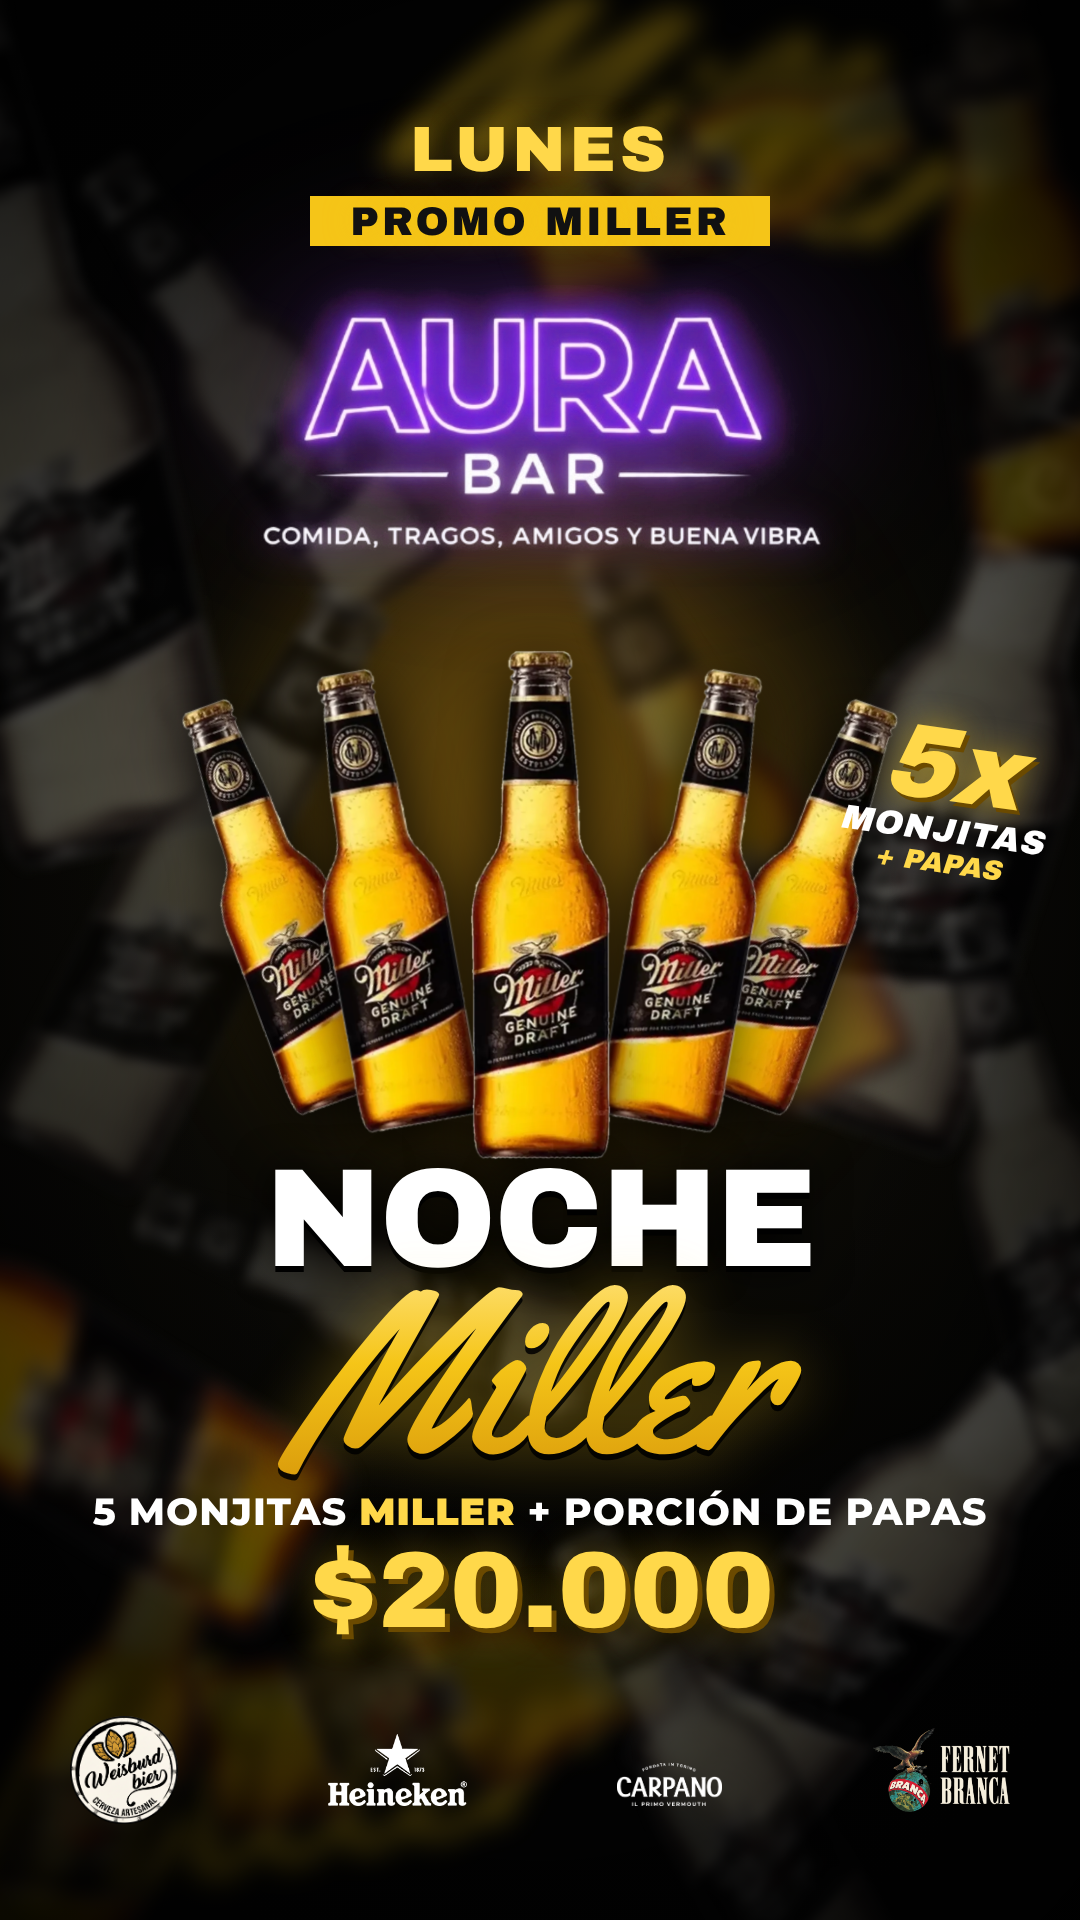
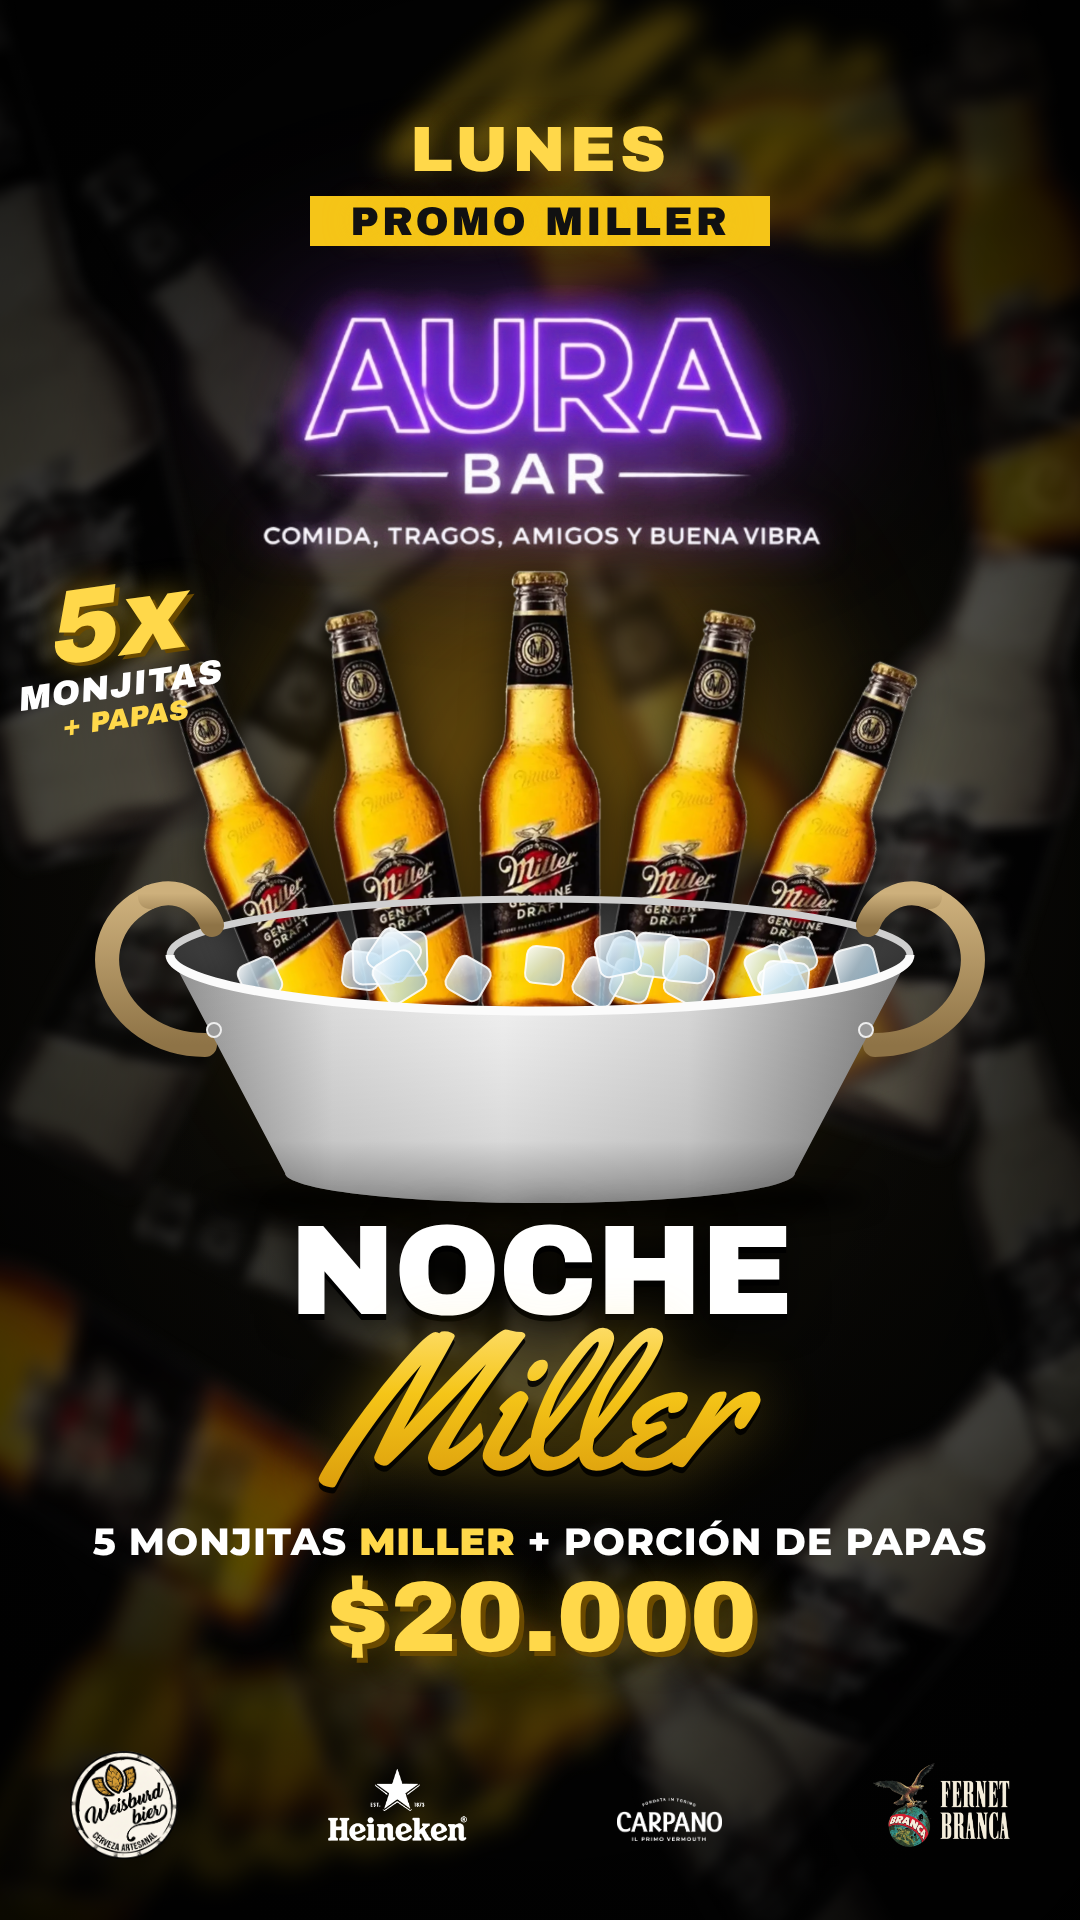
Flyer Aura: botellas dentro de frapera con hielo
Claude-Session: https://claude.ai/code/session_01W39ENh87ipPxyY1fiA6wth

diff --git a/flyer-aura/flyer.html b/flyer-aura/flyer.html
@@ -26,25 +26,27 @@
   .aura { top:285px; }
   .aura img { width:600px; filter: drop-shadow(0 0 18px rgba(166,77,255,.55)); }
 
-  .bottles { position:absolute; left:50%; top:660px; width:0; height:0; }
-  .bottles img { position:absolute; transform-origin:50% 100%; filter: drop-shadow(0 18px 30px rgba(0,0,0,.8)); }
+  .scene { position:absolute; left:0; top:575px; width:1080px; height:640px; }
+  .scene svg { position:absolute; left:0; top:0; width:1080px; height:640px; overflow:visible; }
+  .bottles { position:absolute; left:540px; top:0; width:0; height:0; }
+  .bottles img { position:absolute; transform-origin:50% 100%; filter: drop-shadow(0 10px 20px rgba(0,0,0,.6)); }
 
-  .badge { position:absolute; right:28px; top:720px; transform:rotate(8deg); text-align:center; }
+  .badge { position:absolute; left:14px; top:575px; transform:rotate(-8deg); text-align:center; }
   .badge .n { font-family:'Archivo Black'; font-style:italic; font-size:104px; line-height:.9; color:var(--gold2);
     text-shadow: 4px 4px 0 #6b4a00, 0 0 30px rgba(245,197,24,.5); }
   .badge .t { font-family:'Archivo Black'; font-size:34px; line-height:1; letter-spacing:1px; color:#fff; transform:skewX(-10deg); }
   .badge .t2 { font-family:'Archivo Black'; font-size:28px; color:var(--gold2); transform:skewX(-10deg); }
 
-  .noche { top:1160px; font-family:'Archivo Black'; font-size:140px; line-height:.85; letter-spacing:-2px; color:#fff;
+  .noche { top:1218px; font-family:'Archivo Black'; font-size:128px; line-height:.85; letter-spacing:-2px; color:#fff;
     text-shadow: 0 6px 0 #000, 0 0 40px rgba(0,0,0,.9); }
-  .miller { top:1262px; font-family:'Yellowtail', cursive; font-size:225px; line-height:1; color:var(--gold);
+  .miller { top:1308px; font-family:'Yellowtail', cursive; font-size:190px; line-height:1; color:var(--gold);
     background: linear-gradient(180deg,#ffe27a 0%,#f5c518 45%,#d99a0b 100%); -webkit-background-clip:text; background-clip:text; color:transparent;
     filter: drop-shadow(0 6px 0 rgba(0,0,0,.85)) drop-shadow(0 0 30px rgba(245,197,24,.35)); }
 
-  .promo { top:1488px; }
+  .promo { top:1518px; }
   .promo .l1 { font-weight:800; font-size:38px; letter-spacing:1px; }
   .promo .l1 b { color:var(--gold2); }
-  .promo .price { font-family:'Archivo Black'; font-size:108px; line-height:1.05; color:var(--gold2);
+  .promo .price { font-family:'Archivo Black'; font-size:100px; line-height:1.05; color:var(--gold2);
     text-shadow: 5px 5px 0 #6b4a00, 0 0 40px rgba(245,197,24,.4); }
 
   .addr { top:1662px; }
@@ -52,7 +54,7 @@
   .addr .bar { margin-top:10px; font-family:Montserrat; font-weight:900; font-size:26px; letter-spacing:3px; padding:4px 40px; }
   .legal { top:1675px; font-weight:800; font-size:17px; line-height:1.35; letter-spacing:.5px; }
 
-  .logos { position:absolute; left:70px; right:70px; bottom:95px; height:110px; display:flex; align-items:center; justify-content:space-between; }
+  .logos { position:absolute; left:70px; right:70px; bottom:60px; height:110px; display:flex; align-items:center; justify-content:space-between; }
   .logos img { display:block; }
 </style>
 </head>
@@ -83,12 +85,66 @@
   <div class="center day">LUNES<br><span class="bar">PROMO MILLER</span></div>
   <div class="center aura"><img src="assets/aura.png" alt="Aura Bar"></div>
 
-  <div class="bottles">
-    <img src="assets/miller.png" style="height:420px;left:-250px;top:20px;transform:rotate(-20deg)">
-    <img src="assets/miller.png" style="height:420px;left:134px;top:20px;transform:rotate(20deg)">
-    <img src="assets/miller.png" style="height:460px;left:-180px;top:5px;transform:rotate(-10deg)">
-    <img src="assets/miller.png" style="height:460px;left:52px;top:5px;transform:rotate(10deg)">
-    <img src="assets/miller.png" style="height:510px;left:-70px;top:-10px">
+  <div class="scene">
+    <svg viewBox="0 0 1080 640">
+      <defs>
+        <radialGradient id="inside" cx="50%" cy="40%" r="60%"><stop offset="0" stop-color="#6d6d6d"/><stop offset="1" stop-color="#2c2c2c"/></radialGradient>
+      </defs>
+      <ellipse cx="540" cy="625" rx="330" ry="22" fill="rgba(0,0,0,.7)" filter="blur(10px)"/>
+      <ellipse cx="540" cy="380" rx="370" ry="56" fill="url(#inside)"/>
+    </svg>
+    <div class="bottles">
+    <img src="assets/miller.png" style="height:380px;left:-267px;top:65px;transform:rotate(-22deg)">
+    <img src="assets/miller.png" style="height:380px;left:163px;top:65px;transform:rotate(22deg)">
+    <img src="assets/miller.png" style="height:415px;left:-169px;top:30px;transform:rotate(-11deg)">
+    <img src="assets/miller.png" style="height:415px;left:55px;top:30px;transform:rotate(11deg)">
+    <img src="assets/miller.png" style="height:450px;left:-62px;top:-5px;transform:rotate(0deg)">
+    </div>
+    <svg viewBox="0 0 1080 640">
+      <defs>
+        <linearGradient id="ice" x1="0" y1="0" x2="1" y2="1"><stop offset="0" stop-color="rgba(255,255,255,.95)"/><stop offset=".5" stop-color="rgba(200,228,245,.7)"/><stop offset="1" stop-color="rgba(150,190,215,.8)"/></linearGradient>
+        <linearGradient id="body" x1="0" x2="1"><stop offset="0" stop-color="#8f8f8f"/><stop offset=".22" stop-color="#e2e2e2"/><stop offset=".45" stop-color="#f7f7f7"/><stop offset=".7" stop-color="#dedede"/><stop offset="1" stop-color="#7d7d7d"/></linearGradient>
+        <linearGradient id="bodyV" x1="0" y1="0" x2="0" y2="1"><stop offset="0" stop-color="rgba(0,0,0,0)"/><stop offset=".75" stop-color="rgba(0,0,0,.12)"/><stop offset="1" stop-color="rgba(0,0,0,.4)"/></linearGradient>
+        <linearGradient id="strap" x1="0" y1="0" x2="0" y2="1"><stop offset="0" stop-color="#cdb07c"/><stop offset="1" stop-color="#8e7346"/></linearGradient>
+        <clipPath id="rimclip"><path d="M150,380 A390,56 0 0 0 930,380 L930,250 L150,250 Z"/></clipPath>
+      </defs>
+      <g clip-path="url(#rimclip)">
+      <rect x="343" y="377" width="37" height="37" rx="9" transform="rotate(7 362 395)" fill="url(#ice)" stroke="rgba(255,255,255,.85)" stroke-width="2"/>
+      <rect x="609" y="364" width="32" height="32" rx="9" transform="rotate(24 625 380)" fill="url(#ice)" stroke="rgba(255,255,255,.85)" stroke-width="2"/>
+      <rect x="353" y="363" width="46" height="46" rx="9" transform="rotate(-2 376 385)" fill="url(#ice)" stroke="rgba(255,255,255,.85)" stroke-width="2"/>
+      <rect x="748" y="373" width="41" height="41" rx="9" transform="rotate(-24 769 393)" fill="url(#ice)" stroke="rgba(255,255,255,.85)" stroke-width="2"/>
+      <rect x="612" y="386" width="39" height="39" rx="9" transform="rotate(17 632 406)" fill="url(#ice)" stroke="rgba(255,255,255,.85)" stroke-width="2"/>
+      <rect x="635" y="359" width="43" height="43" rx="9" transform="rotate(6 657 380)" fill="url(#ice)" stroke="rgba(255,255,255,.85)" stroke-width="2"/>
+      <rect x="383" y="357" width="44" height="44" rx="9" transform="rotate(-2 405 379)" fill="url(#ice)" stroke="rgba(255,255,255,.85)" stroke-width="2"/>
+      <rect x="668" y="385" width="42" height="42" rx="9" transform="rotate(29 689 406)" fill="url(#ice)" stroke="rgba(255,255,255,.85)" stroke-width="2"/>
+      <rect x="449" y="385" width="38" height="38" rx="9" transform="rotate(30 469 404)" fill="url(#ice)" stroke="rgba(255,255,255,.85)" stroke-width="2"/>
+      <rect x="781" y="364" width="34" height="34" rx="9" transform="rotate(-20 798 381)" fill="url(#ice)" stroke="rgba(255,255,255,.85)" stroke-width="2"/>
+      <rect x="836" y="372" width="41" height="41" rx="9" transform="rotate(-14 857 392)" fill="url(#ice)" stroke="rgba(255,255,255,.85)" stroke-width="2"/>
+      <rect x="526" y="372" width="37" height="37" rx="9" transform="rotate(6 545 390)" fill="url(#ice)" stroke="rgba(255,255,255,.85)" stroke-width="2"/>
+      <rect x="577" y="386" width="42" height="42" rx="9" transform="rotate(30 597 407)" fill="url(#ice)" stroke="rgba(255,255,255,.85)" stroke-width="2"/>
+      <rect x="762" y="389" width="41" height="41" rx="9" transform="rotate(-24 782 410)" fill="url(#ice)" stroke="rgba(255,255,255,.85)" stroke-width="2"/>
+      <rect x="763" y="387" width="45" height="45" rx="9" transform="rotate(5 785 409)" fill="url(#ice)" stroke="rgba(255,255,255,.85)" stroke-width="2"/>
+      <rect x="664" y="363" width="44" height="44" rx="9" transform="rotate(5 685 385)" fill="url(#ice)" stroke="rgba(255,255,255,.85)" stroke-width="2"/>
+      <rect x="372" y="358" width="44" height="44" rx="9" transform="rotate(34 394 380)" fill="url(#ice)" stroke="rgba(255,255,255,.85)" stroke-width="2"/>
+      <rect x="241" y="385" width="38" height="38" rx="9" transform="rotate(-24 260 404)" fill="url(#ice)" stroke="rgba(255,255,255,.85)" stroke-width="2"/>
+      <rect x="378" y="380" width="44" height="44" rx="9" transform="rotate(-32 400 403)" fill="url(#ice)" stroke="rgba(255,255,255,.85)" stroke-width="2"/>
+      <rect x="597" y="358" width="42" height="42" rx="9" transform="rotate(-12 618 379)" fill="url(#ice)" stroke="rgba(255,255,255,.85)" stroke-width="2"/>
+      </g>
+      <!-- handles back part -->
+      <path d="M205,470 C110,470 70,360 150,322" fill="none" stroke="url(#strap)" stroke-width="24" stroke-linecap="round"/>
+      <path d="M875,470 C970,470 1010,360 930,322" fill="none" stroke="url(#strap)" stroke-width="24" stroke-linecap="round"/>
+      <!-- front body -->
+      <path d="M170,380 L285,598 A255,30 0 0 0 795,598 L910,380 A370,56 0 0 1 170,380 Z" fill="url(#body)"/>
+      <path d="M170,380 L285,598 A255,30 0 0 0 795,598 L910,380 A370,56 0 0 1 170,380 Z" fill="url(#bodyV)"/>
+      <!-- rim lip -->
+      <path d="M170,380 A370,56 0 0 0 910,380" fill="none" stroke="#fbfbfb" stroke-width="9"/>
+      <path d="M170,380 A370,56 0 0 1 910,380" fill="none" stroke="#cfcfcf" stroke-width="7"/>
+      <!-- handle fronts with rivets -->
+      <path d="M150,322 C180,310 205,330 212,350" fill="none" stroke="url(#strap)" stroke-width="24" stroke-linecap="round"/>
+      <path d="M930,322 C900,310 875,330 868,350" fill="none" stroke="url(#strap)" stroke-width="24" stroke-linecap="round"/>
+      <circle cx="214" cy="455" r="7" fill="#9a9a9a" stroke="#eee" stroke-width="2"/>
+      <circle cx="866" cy="455" r="7" fill="#9a9a9a" stroke="#eee" stroke-width="2"/>
+    </svg>
   </div>
 
   <div class="badge">
